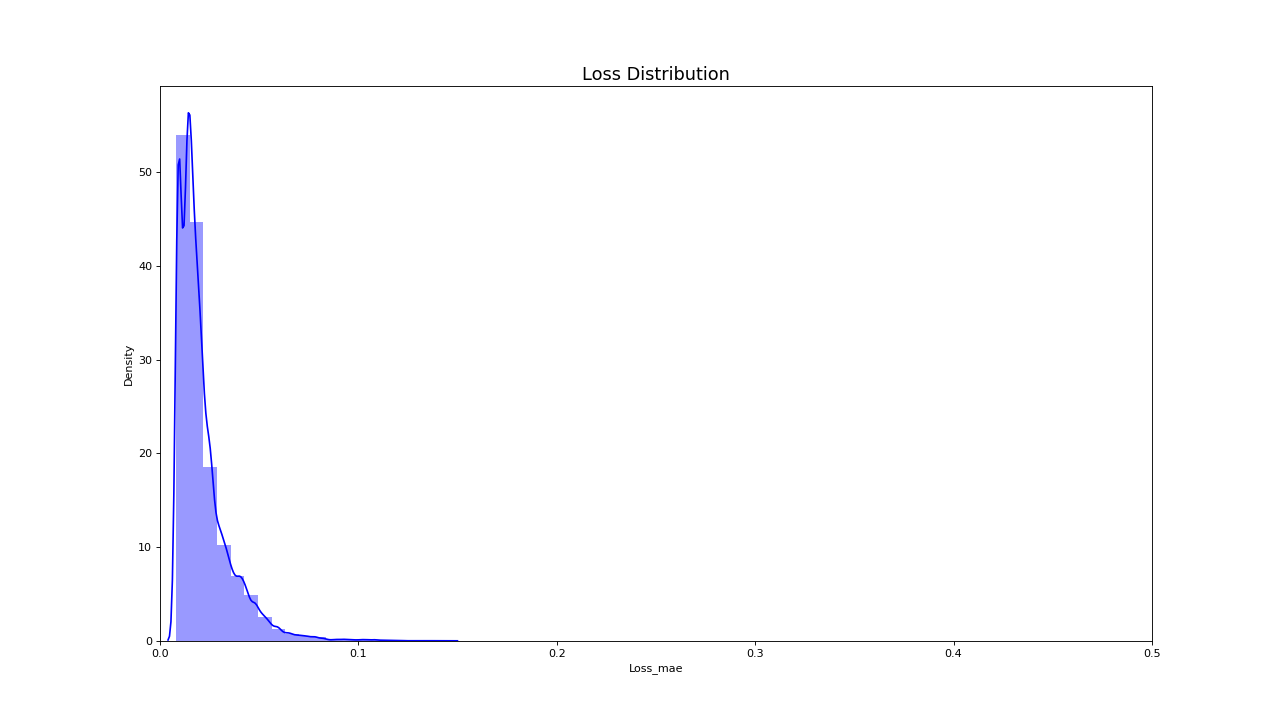
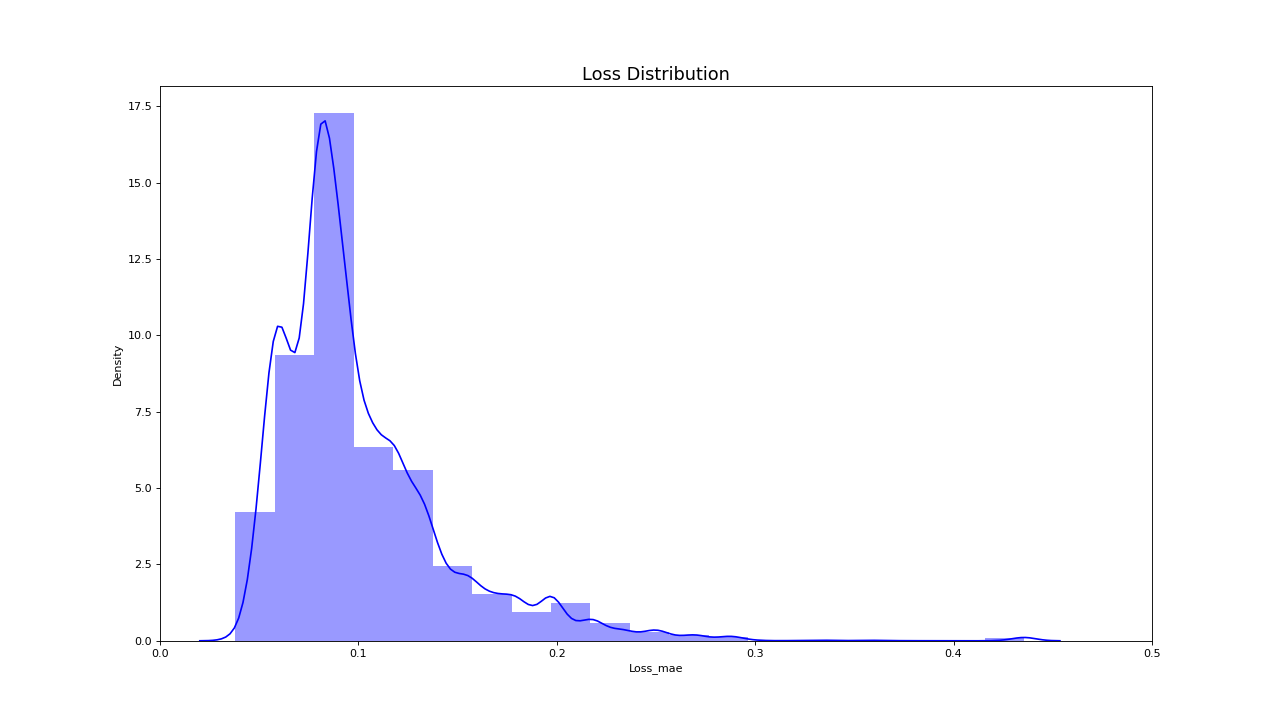
Threshold, Result Change
Add the threshold and result to show only test

Changed region(s): [[0.0938, 0.1528, 0.5938, 0.9167], [0.7812, 0.8861, 0.8125, 0.9167]]

diff --git a/compare.py b/compare.py
@@ -22,21 +22,23 @@ result = OrderedDict()
 if __name__ == '__main__':
   parser = argparse.ArgumentParser()
   parser.add_argument('-dataset', type=str, default='hd', choices=['hd', 'bgl'])
+  parser.add_argument('-train_ratio' , type=float, default='0.6')
   parser.add_argument('-model', type=str, default=None, choices=['nn_autoencoder', 'lstm_autoencoder', 'iso_2auto', 'iso_auto', 'svm_auto', 'svm_2auto'])
+  parser.add_argument('-threshold', type=float, default='0.96')
   args = parser.parse_args()
 
+
+  train_ratio = args.train_ratio
+  window_size = 10
   # HDFS
   if args.dataset == 'hd':
-    train_ratio = 0.8
-    window_size = 10
-
     struct_log = './data/HDFS/HDFS_100k.log_structured.csv' # The structured log file
     label_file = './data/HDFS/HDFS_100k.log_anomaly_label.csv' # The anomaly label file
 
     (x_train, window_y_train, y_train), (x_test, window_y_test, y_test) = \
     dataloader.load_HDFS(struct_log, label_file=label_file, window='session',
                           window_size=window_size, train_ratio=train_ratio, split_type='uniform')
-                          
+    
     feature_extractor = Vectorizer()
     train_dataset = feature_extractor.fit_transform(x_train, window_y_train, y_train)
     test_dataset = feature_extractor.transform(x_test, window_y_test, y_test)
@@ -47,8 +49,6 @@ if __name__ == '__main__':
 
   # BGL
   elif args.dataset == 'bgl':
-    train_ratio = 0.8
-    window_size = 10
     struct_log = './data/BGL/BGL_100k.log_structured.csv' # The structured log file
 
     (x_train, window_y_train, y_train), (x_test, window_y_test, y_test) = \
@@ -67,10 +67,10 @@ if __name__ == '__main__':
     model_list = ['nn_autoencoder', 'lstm_autoencoder', 'iso_2auto', 'iso_auto', 'svm_auto', 'svm_2auto']
   elif args.model != None:
     model_list = [args.model]
-
+  
   for model_ in model_list:
     print('== {} Train =='.format(model_))
-    (y_, y_pred) = locals()[model_](train_dataset,test_dataset)
+    (y_, y_pred) = locals()[model_](train_dataset,test_dataset, args.threshold)
     result['{}'.format(model_)] =  [confusion_matrix(y_, y_pred), accuracy_score(y_, y_pred) , f1_score(y_, y_pred)]
 
   accuracy_df = pd.DataFrame(result, index = ['confusion_matrix','accuracy_score','f1_score'])

diff --git a/model/Iso_2Auto.py b/model/Iso_2Auto.py
@@ -10,7 +10,7 @@ from keras.layers import Dense, Input, BatchNormalization
 from sklearn.ensemble import IsolationForest
 from keras.callbacks import EarlyStopping
 
-def iso_2auto(train_dataset,test_dataset):
+def iso_2auto(train_dataset,test_dataset,threshold):
 	input_dim = train_dataset['x'].shape[1]
 	input = Input(shape=(input_dim, ))
 	encode = Dense(input_dim//3*2, activation='relu',kernel_regularizer=regularizers.l2(0.01))(input)
@@ -115,7 +115,7 @@ def iso_2auto(train_dataset,test_dataset):
 
 	scored_train = pd.DataFrame()
 	scored_train['Loss_mae'] = np.mean(np.abs(X_pred_train-Xtrain), axis = 1)
-	scored_train['Threshold'] = scored_train.quantile(0.9)[0]
+	scored_train['Threshold'] = scored_train.quantile(threshold)[0]
 	scored_train['Anomaly'] = scored_train['Loss_mae'] > scored_train['Threshold']
 
 	# calculate the loss on the test set
@@ -125,11 +125,12 @@ def iso_2auto(train_dataset,test_dataset):
 	scored = pd.DataFrame()
 	Xtest = test_dataset['x']
 	scored['Loss_mae'] = np.mean(np.abs(X_pred-Xtest), axis = 1)
-	scored['Threshold'] =  scored_train.quantile(0.9)[0]
+	scored['Threshold'] =  scored_train.quantile(threshold)[0]
 	scored['Anomaly'] = scored['Loss_mae'] > scored['Threshold']
 	scored.head()
-
-	scored = pd.concat([scored_train, scored])
-	ture_ = pd.Series(train_dataset['y']).append(pd.Series(test_dataset['y']))
+	
+	# scored = pd.concat([scored_train, scored])
+	# ture_ = pd.Series(train_dataset['y']).append(pd.Series(test_dataset['y']))
+	ture_ = pd.Series(test_dataset['y'])
 
 	return ture_,scored['Anomaly']

diff --git a/model/SVM_2Auto.py b/model/SVM_2Auto.py
@@ -10,7 +10,7 @@ from keras.layers import Dense, Input, BatchNormalization
 from sklearn.svm import OneClassSVM
 from keras.callbacks import EarlyStopping
 
-def svm_2auto(train_dataset,test_dataset):
+def svm_2auto(train_dataset,test_dataset,threshold):
 	input_dim = train_dataset['x'].shape[1]
 	input = Input(shape=(input_dim, ))
 	encode = Dense(input_dim//3*2, activation='relu',kernel_regularizer=regularizers.l2(0.01))(input)
@@ -115,7 +115,7 @@ def svm_2auto(train_dataset,test_dataset):
 
 	scored_train = pd.DataFrame()
 	scored_train['Loss_mae'] = np.mean(np.abs(X_pred_train-Xtrain), axis = 1)
-	scored_train['Threshold'] = scored_train.quantile(0.9)[0]
+	scored_train['Threshold'] = scored_train.quantile(threshold)[0]
 	scored_train['Anomaly'] = scored_train['Loss_mae'] > scored_train['Threshold']
 
 	# calculate the loss on the test set
@@ -125,11 +125,12 @@ def svm_2auto(train_dataset,test_dataset):
 	scored = pd.DataFrame()
 	Xtest = test_dataset['x']
 	scored['Loss_mae'] = np.mean(np.abs(X_pred-Xtest), axis = 1)
-	scored['Threshold'] =  scored_train.quantile(0.9)[0]
+	scored['Threshold'] =  scored_train.quantile(threshold)[0]
 	scored['Anomaly'] = scored['Loss_mae'] > scored['Threshold']
 	scored.head()
 
-	scored = pd.concat([scored_train, scored])
-	ture_ = pd.Series(train_dataset['y']).append(pd.Series(test_dataset['y']))
+	# scored = pd.concat([scored_train, scored])
+	# ture_ = pd.Series(train_dataset['y']).append(pd.Series(test_dataset['y']))
+	ture_ = pd.Series(test_dataset['y'])
 
 	return ture_,scored['Anomaly']

diff --git a/model/LSTM_Autoencoder.py b/model/LSTM_Autoencoder.py
@@ -7,7 +7,7 @@ from keras.models import  Model, Sequential
 from keras.layers import Dense, LSTM , RepeatVector, TimeDistributed, BatchNormalization
 from keras.callbacks import EarlyStopping
 
-def lstm_autoencoder(train_dataset, test_dataset):
+def lstm_autoencoder(train_dataset, test_dataset, threshold):
   x = np.expand_dims(train_dataset['x'],axis=1)
 
   # LSTM Autoencoder
@@ -78,7 +78,7 @@ def lstm_autoencoder(train_dataset, test_dataset):
 
   scored_train = pd.DataFrame()
   scored_train['Loss_mae'] = np.mean(np.abs(X_pred_train-Xtrain), axis = 1)
-  scored_train['Threshold'] = scored_train.quantile(0.9)[0]
+  scored_train['Threshold'] = scored_train.quantile(threshold)[0]
   scored_train['Anomaly'] = scored_train['Loss_mae'] > scored_train['Threshold']
 
   # calculate the loss on the test set
@@ -89,11 +89,12 @@ def lstm_autoencoder(train_dataset, test_dataset):
   scored = pd.DataFrame()
   Xtest = test_dataset['x']
   scored['Loss_mae'] = np.mean(np.abs(X_pred-Xtest), axis = 1)
-  scored['Threshold'] =  scored_train.quantile(0.9)[0]
+  scored['Threshold'] =  scored_train.quantile(threshold)[0]
   scored['Anomaly'] = scored['Loss_mae'] > scored['Threshold']
   scored.head()
 
-  scored = pd.concat([scored_train, scored])
-  ture_ = pd.Series(train_dataset['y']).append(pd.Series(test_dataset['y']))
-
+	# scored = pd.concat([scored_train, scored])
+	# ture_ = pd.Series(train_dataset['y']).append(pd.Series(test_dataset['y']))
+  ture_ = pd.Series(test_dataset['y'])
+  
   return ture_,scored['Anomaly']

diff --git a/model/NN_Autoencoder.py b/model/NN_Autoencoder.py
@@ -9,7 +9,7 @@ from keras.layers import Dense, Input, BatchNormalization
 from keras.callbacks import EarlyStopping
 
 # Autoencoder model.
-def nn_autoencoder(train_dataset, test_dataset):
+def nn_autoencoder(train_dataset, test_dataset, threshold):
 	# Autoencoder model.
 	input_dim = train_dataset['x'].shape[1]
 	input = Input(shape=(input_dim, ))
@@ -76,7 +76,7 @@ def nn_autoencoder(train_dataset, test_dataset):
 
 	scored_train = pd.DataFrame()
 	scored_train['Loss_mae'] = np.mean(np.abs(X_pred_train-Xtrain), axis = 1)
-	scored_train['Threshold'] = scored_train.quantile(0.9)[0]
+	scored_train['Threshold'] = scored_train.quantile(threshold)[0]
 	scored_train['Anomaly'] = scored_train['Loss_mae'] > scored_train['Threshold']
 
 	# calculate the loss on the test set
@@ -86,11 +86,11 @@ def nn_autoencoder(train_dataset, test_dataset):
 	scored = pd.DataFrame()
 	Xtest = test_dataset['x']
 	scored['Loss_mae'] = np.mean(np.abs(X_pred-Xtest), axis = 1)
-	scored['Threshold'] =  scored_train.quantile(0.9)[0]
+	scored['Threshold'] =  scored_train.quantile(threshold)[0]
 	scored['Anomaly'] = scored['Loss_mae'] > scored['Threshold']
 	scored.head()
 
-	scored = pd.concat([scored_train, scored])
-	ture_ = pd.Series(train_dataset['y']).append(pd.Series(test_dataset['y']))
-
+	# scored = pd.concat([scored_train, scored])
+	# ture_ = pd.Series(train_dataset['y']).append(pd.Series(test_dataset['y']))
+	ture_ = pd.Series(test_dataset['y'])
 	return ture_,scored['Anomaly']

diff --git a/model/Iso_Auto.py b/model/Iso_Auto.py
@@ -11,7 +11,7 @@ import matplotlib.pyplot as plt
 import seaborn as sns
 
 
-def iso_auto(train_dataset,test_dataset):
+def iso_auto(train_dataset,test_dataset,threshold):
 	clf = IsolationForest(random_state = 42, contamination = 0.3)
 	clf.fit(train_dataset['x'])
 	pred = clf.predict(train_dataset['x'])
@@ -84,7 +84,7 @@ def iso_auto(train_dataset,test_dataset):
 
 	scored_train = pd.DataFrame()
 	scored_train['Loss_mae'] = np.mean(np.abs(X_pred_train-Xtrain), axis = 1)
-	scored_train['Threshold'] = scored_train.quantile(0.9)[0]
+	scored_train['Threshold'] = scored_train.quantile(threshold)[0]
 	scored_train['Anomaly'] = scored_train['Loss_mae'] > scored_train['Threshold']
 
 	# calculate the loss on the test set
@@ -94,11 +94,12 @@ def iso_auto(train_dataset,test_dataset):
 	scored = pd.DataFrame()
 	Xtest = test_dataset['x']
 	scored['Loss_mae'] = np.mean(np.abs(X_pred-Xtest), axis = 1)
-	scored['Threshold'] =  scored_train.quantile(0.9)[0]
+	scored['Threshold'] =  scored_train.quantile(threshold)[0]
 	scored['Anomaly'] = scored['Loss_mae'] > scored['Threshold']
 	scored.head()
 
-	scored = pd.concat([scored_train, scored])
-	ture_ = pd.Series(train_dataset['y']).append(pd.Series(test_dataset['y']))
+	# scored = pd.concat([scored_train, scored])
+	# ture_ = pd.Series(train_dataset['y']).append(pd.Series(test_dataset['y']))
+	ture_ = pd.Series(test_dataset['y'])
 
 	return ture_,scored['Anomaly']

diff --git a/model/SVM_Auto.py b/model/SVM_Auto.py
@@ -11,7 +11,7 @@ import matplotlib.pyplot as plt
 import seaborn as sns
 
 
-def svm_auto(train_dataset,test_dataset):
+def svm_auto(train_dataset,test_dataset,threshold):
 	clf = OneClassSVM(gamma='auto')
 	clf.fit(train_dataset['x'])
 	pred = clf.predict(train_dataset['x'])
@@ -83,7 +83,7 @@ def svm_auto(train_dataset,test_dataset):
 
 	scored_train = pd.DataFrame()
 	scored_train['Loss_mae'] = np.mean(np.abs(X_pred_train-Xtrain), axis = 1)
-	scored_train['Threshold'] = scored_train.quantile(0.9)[0]
+	scored_train['Threshold'] = scored_train.quantile(threshold)[0]
 	scored_train['Anomaly'] = scored_train['Loss_mae'] > scored_train['Threshold']
 
 	# calculate the loss on the test set
@@ -93,11 +93,12 @@ def svm_auto(train_dataset,test_dataset):
 	scored = pd.DataFrame()
 	Xtest = test_dataset['x']
 	scored['Loss_mae'] = np.mean(np.abs(X_pred-Xtest), axis = 1)
-	scored['Threshold'] =  scored_train.quantile(0.9)[0]
+	scored['Threshold'] =  scored_train.quantile(threshold)[0]
 	scored['Anomaly'] = scored['Loss_mae'] > scored['Threshold']
 	scored.head()
 
-	scored = pd.concat([scored_train, scored])
-	ture_ = pd.Series(train_dataset['y']).append(pd.Series(test_dataset['y']))
+	# scored = pd.concat([scored_train, scored])
+	# ture_ = pd.Series(train_dataset['y']).append(pd.Series(test_dataset['y']))
+	ture_ = pd.Series(test_dataset['y'])
 
 	return ture_,scored['Anomaly']
